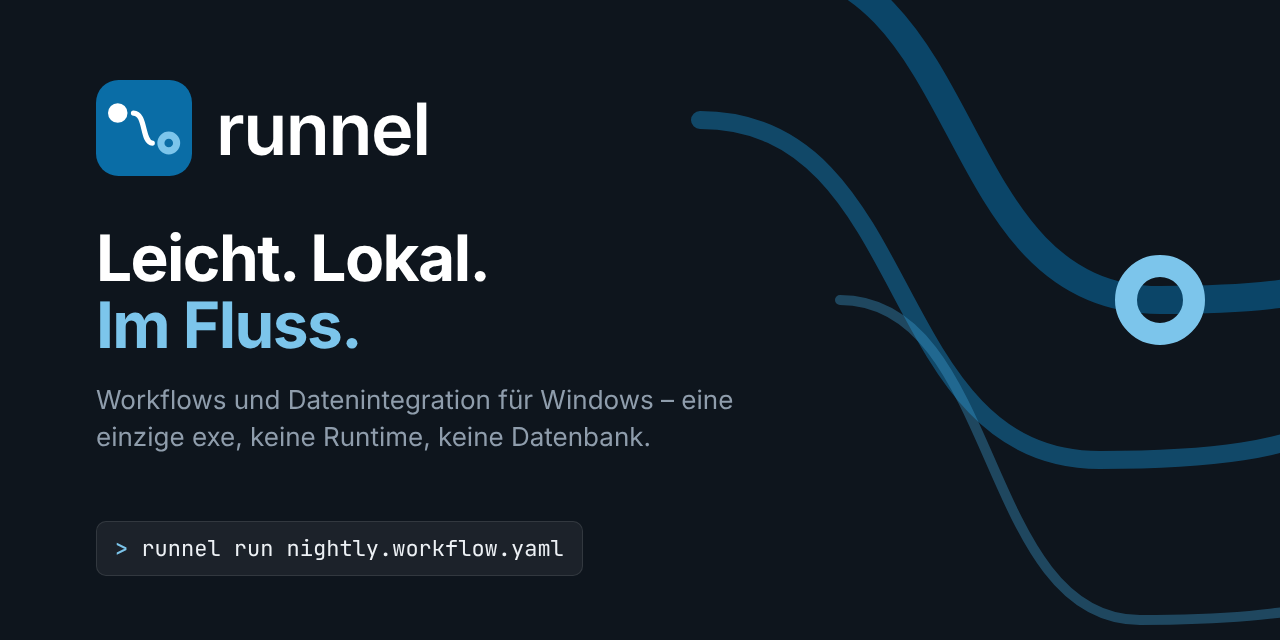
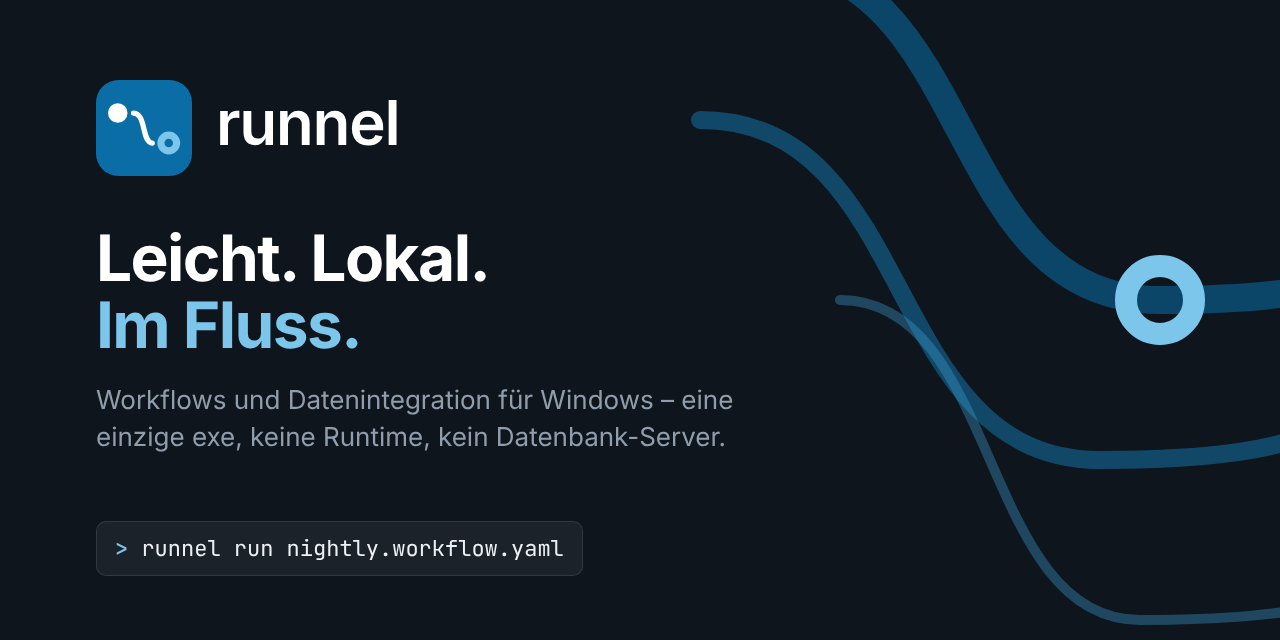
Q-Website: ADR 0026 – Run-Historie, „kein Datenbank-Server“
Beschreibung auf Startseite, Meta-Angaben und Installation nach ADR 0026
angepasst, Social Card aus dem Corporate Design übernommen. Handbuch
(Betrieb, Installation) und API-Doku beschreiben die geplante
Run-Historie.

Claude-Session: https://claude.ai/code/session_015qsFfc5ueDVhE7J67ciR7H

Changed region(s): [[0.1562, 0.1562, 0.3438, 0.25], [0.375, 0.6562, 0.5625, 0.7188]]

diff --git a/_src/guide-betrieb.html b/_src/guide-betrieb.html
@@ -118,8 +118,18 @@ runnel serve --triggers 0.0.0.0:7301 --triggers-cert C:\certs\runnel.crt --trigg
           <ul>
             <li><strong>CLI:</strong> Das Log erscheint in der Konsole; mit <code>-v</code> ausführlich.</li>
             <li><strong>Editor:</strong> Tab „Log“ unter dem Canvas, Status an jeder Action, Ergebnis im Panel.</li>
-            <li><strong>Server und Dienst:</strong> Die letzten 100 Läufe (dazu die letzten 100 von HTTP-Triggern) stehen im Speicher und im Editor; eine dauerhafte Historie ist geplant. Der Dienst schreibt zusätzlich die Log-Datei.</li>
+            <li><strong>Server und Dienst:</strong> Die letzten 100 Läufe (dazu die letzten 100 von HTTP-Triggern) stehen im Speicher und im Editor. Der Dienst schreibt zusätzlich die Log-Datei.</li>
             <li><strong>Secrets</strong> werden in Log, Fehlern und Ergebnissen durch <code>***</code> ersetzt.</li>
+          </ul>
+
+          <h3 id="historie">Run-Historie (in Arbeit)</h3>
+          <p>Beschlossen in <a href="https://github.com/runnelhq/runnel/blob/main/docs/adr/0026-run-historie.md">ADR 0026</a>, umgesetzt in den nächsten Schritten: Läufe überstehen dann Neustarts, und auch Läufe von <code>runnel run</code> und der Aufgabenplanung werden sichtbar. Es bleibt bei „kein Datenbank-Server“ – die Historie ist eine SQLite-Datei, die die exe selbst schreibt; nichts zu installieren und nichts zu verwalten.</p>
+          <ul>
+            <li><strong>Ort:</strong> eine Datei <code>runs.db</code> je Projekt im Datenordner, nicht im Projektordner (gehört nicht in Git; SQLite ist auf Netzlaufwerken nicht sicher). Dienst: <code>%ProgramData%\runnel\history\…</code>, Benutzer: <code>%LOCALAPPDATA%\runnel\history\…</code>; mit <code>--history-dir</code> frei wählbar, z. B. portabel neben der exe.</li>
+            <li><strong>Inhalt:</strong> Lauf, Status je Action bzw. Transform und Log (höchstens 5.000 Zeilen je Lauf); keine Datensätze, Secrets bereits maskiert.</li>
+            <li><strong>Gleichzeitig:</strong> Dienst, <code>runnel serve</code> und <code>runnel run</code> schreiben in dieselbe Datei. Ein Fehler der Historie hält keinen Lauf auf.</li>
+            <li><strong>Ansehen:</strong> im Editor, über die API oder mit <code>runnel runs</code> bzw. <code>runnel runs &lt;id&gt;</code> – ohne SQLite-Werkzeug.</li>
+            <li><strong>Aufbewahrung</strong> in <code>project.yaml</code> unter <code>settings.history</code>: <code>keepDays</code> (Standard 30), <code>maxRuns</code> (10.000), <code>cli</code> (<code>all</code>, <code>errors</code>, <code>none</code>); <code>history:</code> gilt dann für alle Trigger-Arten.</li>
           </ul>
         </article>
 
@@ -228,8 +238,18 @@ runnel serve --triggers 0.0.0.0:7301 --triggers-cert C:\certs\runnel.crt --trigg
           <ul>
             <li><strong>CLI:</strong> the log appears in the console; detailed with <code>-v</code>.</li>
             <li><strong>Editor:</strong> “Log” tab below the canvas, status on every action, result in the panel.</li>
-            <li><strong>Server and service:</strong> the last 100 runs (plus the last 100 from HTTP triggers) are kept in memory and shown in the editor; a persistent history is planned. The service also writes the log file.</li>
+            <li><strong>Server and service:</strong> the last 100 runs (plus the last 100 from HTTP triggers) are kept in memory and shown in the editor. The service also writes the log file.</li>
             <li><strong>Secrets</strong> are replaced by <code>***</code> in log, errors and results.</li>
+          </ul>
+
+          <h3 id="history-en">Run history (in progress)</h3>
+          <p>Decided in <a href="https://github.com/runnelhq/runnel/blob/main/docs/adr/0026-run-historie.md">ADR 0026</a> (German), implemented in the next steps: runs then survive restarts, and runs from <code>runnel run</code> and the Task Scheduler become visible too. It stays “no database server” – the history is an SQLite file handled by the executable itself, nothing to install or administer.</p>
+          <ul>
+            <li><strong>Location:</strong> one file <code>runs.db</code> per project in the data folder, not in the project folder (it does not belong in Git; SQLite is not safe on network drives). Service: <code>%ProgramData%\runnel\history\…</code>, user: <code>%LOCALAPPDATA%\runnel\history\…</code>; <code>--history-dir</code> sets it freely, e.g. portable next to the executable.</li>
+            <li><strong>Content:</strong> run, status per action or transform and log (at most 5,000 lines per run); no records, secrets already masked.</li>
+            <li><strong>Concurrent:</strong> service, <code>runnel serve</code> and <code>runnel run</code> write to the same file. A history error never holds up a run.</li>
+            <li><strong>Viewing:</strong> in the editor, via the API or with <code>runnel runs</code> or <code>runnel runs &lt;id&gt;</code> – no SQLite tool needed.</li>
+            <li><strong>Retention</strong> in <code>project.yaml</code> under <code>settings.history</code>: <code>keepDays</code> (default 30), <code>maxRuns</code> (10,000), <code>cli</code> (<code>all</code>, <code>errors</code>, <code>none</code>); <code>history:</code> then applies to all trigger kinds.</li>
           </ul>
         </article>
       </div>

diff --git a/handbuch/betrieb.html b/handbuch/betrieb.html
@@ -209,8 +209,18 @@ runnel serve --triggers 0.0.0.0:7301 --triggers-cert C:\certs\runnel.crt --trigg
           <ul>
             <li><strong>CLI:</strong> Das Log erscheint in der Konsole; mit <code>-v</code> ausführlich.</li>
             <li><strong>Editor:</strong> Tab „Log“ unter dem Canvas, Status an jeder Action, Ergebnis im Panel.</li>
-            <li><strong>Server und Dienst:</strong> Die letzten 100 Läufe (dazu die letzten 100 von HTTP-Triggern) stehen im Speicher und im Editor; eine dauerhafte Historie ist geplant. Der Dienst schreibt zusätzlich die Log-Datei.</li>
+            <li><strong>Server und Dienst:</strong> Die letzten 100 Läufe (dazu die letzten 100 von HTTP-Triggern) stehen im Speicher und im Editor. Der Dienst schreibt zusätzlich die Log-Datei.</li>
             <li><strong>Secrets</strong> werden in Log, Fehlern und Ergebnissen durch <code>***</code> ersetzt.</li>
+          </ul>
+
+          <h3 id="historie">Run-Historie (in Arbeit)</h3>
+          <p>Beschlossen in <a href="https://github.com/runnelhq/runnel/blob/main/docs/adr/0026-run-historie.md">ADR 0026</a>, umgesetzt in den nächsten Schritten: Läufe überstehen dann Neustarts, und auch Läufe von <code>runnel run</code> und der Aufgabenplanung werden sichtbar. Es bleibt bei „kein Datenbank-Server“ – die Historie ist eine SQLite-Datei, die die exe selbst schreibt; nichts zu installieren und nichts zu verwalten.</p>
+          <ul>
+            <li><strong>Ort:</strong> eine Datei <code>runs.db</code> je Projekt im Datenordner, nicht im Projektordner (gehört nicht in Git; SQLite ist auf Netzlaufwerken nicht sicher). Dienst: <code>%ProgramData%\runnel\history\…</code>, Benutzer: <code>%LOCALAPPDATA%\runnel\history\…</code>; mit <code>--history-dir</code> frei wählbar, z. B. portabel neben der exe.</li>
+            <li><strong>Inhalt:</strong> Lauf, Status je Action bzw. Transform und Log (höchstens 5.000 Zeilen je Lauf); keine Datensätze, Secrets bereits maskiert.</li>
+            <li><strong>Gleichzeitig:</strong> Dienst, <code>runnel serve</code> und <code>runnel run</code> schreiben in dieselbe Datei. Ein Fehler der Historie hält keinen Lauf auf.</li>
+            <li><strong>Ansehen:</strong> im Editor, über die API oder mit <code>runnel runs</code> bzw. <code>runnel runs &lt;id&gt;</code> – ohne SQLite-Werkzeug.</li>
+            <li><strong>Aufbewahrung</strong> in <code>project.yaml</code> unter <code>settings.history</code>: <code>keepDays</code> (Standard 30), <code>maxRuns</code> (10.000), <code>cli</code> (<code>all</code>, <code>errors</code>, <code>none</code>); <code>history:</code> gilt dann für alle Trigger-Arten.</li>
           </ul>
         </article>
 
@@ -334,8 +344,18 @@ runnel serve --triggers 0.0.0.0:7301 --triggers-cert C:\certs\runnel.crt --trigg
           <ul>
             <li><strong>CLI:</strong> the log appears in the console; detailed with <code>-v</code>.</li>
             <li><strong>Editor:</strong> “Log” tab below the canvas, status on every action, result in the panel.</li>
-            <li><strong>Server and service:</strong> the last 100 runs (plus the last 100 from HTTP triggers) are kept in memory and shown in the editor; a persistent history is planned. The service also writes the log file.</li>
+            <li><strong>Server and service:</strong> the last 100 runs (plus the last 100 from HTTP triggers) are kept in memory and shown in the editor. The service also writes the log file.</li>
             <li><strong>Secrets</strong> are replaced by <code>***</code> in log, errors and results.</li>
+          </ul>
+
+          <h3 id="history-en">Run history (in progress)</h3>
+          <p>Decided in <a href="https://github.com/runnelhq/runnel/blob/main/docs/adr/0026-run-historie.md">ADR 0026</a> (German), implemented in the next steps: runs then survive restarts, and runs from <code>runnel run</code> and the Task Scheduler become visible too. It stays “no database server” – the history is an SQLite file handled by the executable itself, nothing to install or administer.</p>
+          <ul>
+            <li><strong>Location:</strong> one file <code>runs.db</code> per project in the data folder, not in the project folder (it does not belong in Git; SQLite is not safe on network drives). Service: <code>%ProgramData%\runnel\history\…</code>, user: <code>%LOCALAPPDATA%\runnel\history\…</code>; <code>--history-dir</code> sets it freely, e.g. portable next to the executable.</li>
+            <li><strong>Content:</strong> run, status per action or transform and log (at most 5,000 lines per run); no records, secrets already masked.</li>
+            <li><strong>Concurrent:</strong> service, <code>runnel serve</code> and <code>runnel run</code> write to the same file. A history error never holds up a run.</li>
+            <li><strong>Viewing:</strong> in the editor, via the API or with <code>runnel runs</code> or <code>runnel runs &lt;id&gt;</code> – no SQLite tool needed.</li>
+            <li><strong>Retention</strong> in <code>project.yaml</code> under <code>settings.history</code>: <code>keepDays</code> (default 30), <code>maxRuns</code> (10,000), <code>cli</code> (<code>all</code>, <code>errors</code>, <code>none</code>); <code>history:</code> then applies to all trigger kinds.</li>
           </ul>
         </article>
       </div>

diff --git a/handbuch/installation.html b/handbuch/installation.html
@@ -93,7 +93,7 @@
         <article class="prose" data-lang-block="de" lang="de">
           <p class="docs-eyebrow">Handbuch</p>
           <h1>Installation</h1>
-          <p class="docs-lead">Runnel ist eine einzige ausführbare Datei. Es gibt kein Setup, keine Runtime und keine Datenbank: herunterladen, entpacken, starten.</p>
+          <p class="docs-lead">Runnel ist eine einzige ausführbare Datei. Es gibt kein Setup, keine Runtime und keinen Datenbank-Server: herunterladen, entpacken, starten.</p>
 
           <h2 id="voraussetzungen">Voraussetzungen</h2>
           <ul>
@@ -174,7 +174,7 @@ C:\Tools\Runnel\runnel.exe version</code></pre>
           <ul>
             <li><strong>Stopp:</strong> <code>service stop</code> wartet bis zu 30 s auf laufende Runs und bricht sie danach ab – am besten außerhalb der Zeitpläne wechseln.</li>
             <li><strong>Während des Wechsels</strong> entfallen Zeitpunkte von Zeitplan- und Intervall-Triggern; neue Dateien in überwachten Ordnern verarbeitet der Dienst nach dem Start; Aufrufe von HTTP-Triggern scheitern, bis er wieder läuft.</li>
-            <li><strong>Läufe:</strong> Die Liste der Läufe liegt nur im Speicher und beginnt nach dem Neustart leer.</li>
+            <li><strong>Läufe:</strong> Die Liste der Läufe liegt heute nur im Speicher und beginnt nach dem Neustart leer. Mit der Run-Historie (<a href="https://github.com/runnelhq/runnel/blob/main/docs/adr/0026-run-historie.md">ADR 0026</a>) bleiben sie erhalten; sie liegt im Datenordner, nicht neben der exe.</li>
             <li><strong>Mehrere Dienste</strong>, die dieselbe <code>runnel.exe</code> starten, vorher alle stoppen – Windows sperrt die Datei, solange einer läuft.</li>
             <li><strong>Ohne Dienst:</strong> <code>runnel serve</code> mit Strg+C beenden, Datei ersetzen, neu starten.</li>
             <li><strong>Zurück:</strong> Dienst stoppen, <code>runnel-old.exe</code> wieder in <code>runnel.exe</code> umbenennen, Dienst starten.</li>
@@ -193,7 +193,7 @@ C:\Tools\Runnel\runnel.exe version</code></pre>
         <article class="prose" data-lang-block="en" hidden lang="en">
           <p class="docs-eyebrow">User guide</p>
           <h1>Installation</h1>
-          <p class="docs-lead">Runnel is a single executable. There is no setup, no runtime and no database: download, unpack, start.</p>
+          <p class="docs-lead">Runnel is a single executable. There is no setup, no runtime and no database server: download, unpack, start.</p>
 
           <h2 id="requirements">Requirements</h2>
           <ul>
@@ -274,7 +274,7 @@ C:\Tools\Runnel\runnel.exe version</code></pre>
           <ul>
             <li><strong>Stopping:</strong> <code>service stop</code> waits up to 30 s for running runs, then cancels them – best switch outside the schedules.</li>
             <li><strong>During the switch</strong> schedule and interval trigger times are skipped; new files in watched folders are processed after the start; calls to HTTP triggers fail until the service runs again.</li>
-            <li><strong>Runs:</strong> the list of runs lives in memory only and starts empty after the restart.</li>
+            <li><strong>Runs:</strong> today the list of runs lives in memory only and starts empty after the restart. With the run history (<a href="https://github.com/runnelhq/runnel/blob/main/docs/adr/0026-run-historie.md">ADR 0026</a>) they are kept; it lives in the data folder, not next to the executable.</li>
             <li><strong>Several services</strong> starting the same <code>runnel.exe</code>: stop them all first – Windows locks the file while one runs.</li>
             <li><strong>Without a service:</strong> end <code>runnel serve</code> with Ctrl+C, replace the file, start again.</li>
             <li><strong>Going back:</strong> stop the service, rename <code>runnel-old.exe</code> back to <code>runnel.exe</code>, start the service.</li>

diff --git a/_src/guide-installation.html b/_src/guide-installation.html
@@ -17,7 +17,7 @@
         <article class="prose" data-lang-block="de" lang="de">
           <p class="docs-eyebrow">Handbuch</p>
           <h1>Installation</h1>
-          <p class="docs-lead">Runnel ist eine einzige ausführbare Datei. Es gibt kein Setup, keine Runtime und keine Datenbank: herunterladen, entpacken, starten.</p>
+          <p class="docs-lead">Runnel ist eine einzige ausführbare Datei. Es gibt kein Setup, keine Runtime und keinen Datenbank-Server: herunterladen, entpacken, starten.</p>
 
           <h2 id="voraussetzungen">Voraussetzungen</h2>
           <ul>
@@ -86,7 +86,7 @@ C:\Tools\Runnel\runnel.exe version</code></pre>
           <ul>
             <li><strong>Stopp:</strong> <code>service stop</code> wartet bis zu 30 s auf laufende Runs und bricht sie danach ab – am besten außerhalb der Zeitpläne wechseln.</li>
             <li><strong>Während des Wechsels</strong> entfallen Zeitpunkte von Zeitplan- und Intervall-Triggern; neue Dateien in überwachten Ordnern verarbeitet der Dienst nach dem Start; Aufrufe von HTTP-Triggern scheitern, bis er wieder läuft.</li>
-            <li><strong>Läufe:</strong> Die Liste der Läufe liegt nur im Speicher und beginnt nach dem Neustart leer.</li>
+            <li><strong>Läufe:</strong> Die Liste der Läufe liegt heute nur im Speicher und beginnt nach dem Neustart leer. Mit der Run-Historie (<a href="https://github.com/runnelhq/runnel/blob/main/docs/adr/0026-run-historie.md">ADR 0026</a>) bleiben sie erhalten; sie liegt im Datenordner, nicht neben der exe.</li>
             <li><strong>Mehrere Dienste</strong>, die dieselbe <code>runnel.exe</code> starten, vorher alle stoppen – Windows sperrt die Datei, solange einer läuft.</li>
             <li><strong>Ohne Dienst:</strong> <code>runnel serve</code> mit Strg+C beenden, Datei ersetzen, neu starten.</li>
             <li><strong>Zurück:</strong> Dienst stoppen, <code>runnel-old.exe</code> wieder in <code>runnel.exe</code> umbenennen, Dienst starten.</li>
@@ -105,7 +105,7 @@ C:\Tools\Runnel\runnel.exe version</code></pre>
         <article class="prose" data-lang-block="en" lang="en">
           <p class="docs-eyebrow">User guide</p>
           <h1>Installation</h1>
-          <p class="docs-lead">Runnel is a single executable. There is no setup, no runtime and no database: download, unpack, start.</p>
+          <p class="docs-lead">Runnel is a single executable. There is no setup, no runtime and no database server: download, unpack, start.</p>
 
           <h2 id="requirements">Requirements</h2>
           <ul>
@@ -174,7 +174,7 @@ C:\Tools\Runnel\runnel.exe version</code></pre>
           <ul>
             <li><strong>Stopping:</strong> <code>service stop</code> waits up to 30 s for running runs, then cancels them – best switch outside the schedules.</li>
             <li><strong>During the switch</strong> schedule and interval trigger times are skipped; new files in watched folders are processed after the start; calls to HTTP triggers fail until the service runs again.</li>
-            <li><strong>Runs:</strong> the list of runs lives in memory only and starts empty after the restart.</li>
+            <li><strong>Runs:</strong> today the list of runs lives in memory only and starts empty after the restart. With the run history (<a href="https://github.com/runnelhq/runnel/blob/main/docs/adr/0026-run-historie.md">ADR 0026</a>) they are kept; it lives in the data folder, not next to the executable.</li>
             <li><strong>Several services</strong> starting the same <code>runnel.exe</code>: stop them all first – Windows locks the file while one runs.</li>
             <li><strong>Without a service:</strong> end <code>runnel serve</code> with Ctrl+C, replace the file, start again.</li>
             <li><strong>Going back:</strong> stop the service, rename <code>runnel-old.exe</code> back to <code>runnel.exe</code>, start the service.</li>

diff --git a/docs/api.html b/docs/api.html
@@ -197,7 +197,7 @@ curl -N <span class="tok-s">"http://127.0.0.1:7300/api/v1/events?run=&lt;id&gt;"
   <span class="tok-s">"outputs"</span>: { <span class="tok-s">"MESSAGE"</span>: <span class="tok-s">"Hello"</span> }
 }</code></pre>
 </div>
-          <p><code>status</code> ist <code>running</code>, <code>succeeded</code>, <code>failed</code> oder <code>cancelled</code>; <code>trigger</code> nennt, was den Lauf gestartet hat (<code>cron:&lt;name&gt;</code>, <code>interval:…</code>, <code>file:…</code>, <code>http:…</code>). <code>GET /runs/{id}</code> ergänzt den Status je Action und das Log (höchstens 5.000 Zeilen). Läufe liegen nur im Speicher – die letzten 100, dazu die letzten 100 von HTTP-Triggern; eine dauerhafte Historie folgt mit S26, ohne dass sich die API ändert.</p>
+          <p><code>status</code> ist <code>running</code>, <code>succeeded</code>, <code>failed</code> oder <code>cancelled</code>; <code>trigger</code> nennt, was den Lauf gestartet hat (<code>cron:&lt;name&gt;</code>, <code>interval:…</code>, <code>file:…</code>, <code>http:…</code>). <code>GET /runs/{id}</code> ergänzt den Status je Action und das Log (höchstens 5.000 Zeilen). Läufe liegen nur im Speicher – die letzten 100, dazu die letzten 100 von HTTP-Triggern; eine dauerhafte Historie folgt mit S26 (<a href="https://github.com/runnelhq/runnel/blob/main/docs/adr/0026-run-historie.md">ADR 0026</a>): eine SQLite-Datei je Projekt im Datenordner. Die Antworten bleiben gleich; laufende Läufe kommen weiter aus dem Speicher, alle anderen aus der Historie, dazu Filter und Seiten (<code>status</code>, <code>path</code>, <code>trigger</code>, <code>before</code>, <code>limit</code>).</p>
 
           <h2 id="events">Live-Ereignisse (<code>/events</code>)</h2>
           <div class="code">
@@ -346,7 +346,7 @@ curl -N <span class="tok-s">"http://127.0.0.1:7300/api/v1/events?run=&lt;id&gt;"
   <span class="tok-s">"outputs"</span>: { <span class="tok-s">"MESSAGE"</span>: <span class="tok-s">"Hello"</span> }
 }</code></pre>
 </div>
-          <p><code>status</code> is <code>running</code>, <code>succeeded</code>, <code>failed</code> or <code>cancelled</code>; <code>trigger</code> names what started the run (<code>cron:&lt;name&gt;</code>, <code>interval:…</code>, <code>file:…</code>, <code>http:…</code>). <code>GET /runs/{id}</code> adds the status per action and the log (at most 5,000 lines). Runs are kept in memory only – the last 100 plus the last 100 from HTTP triggers; a persistent history follows with S26 without changing the API.</p>
+          <p><code>status</code> is <code>running</code>, <code>succeeded</code>, <code>failed</code> or <code>cancelled</code>; <code>trigger</code> names what started the run (<code>cron:&lt;name&gt;</code>, <code>interval:…</code>, <code>file:…</code>, <code>http:…</code>). <code>GET /runs/{id}</code> adds the status per action and the log (at most 5,000 lines). Runs are kept in memory only – the last 100 plus the last 100 from HTTP triggers; a persistent history follows with S26 (<a href="https://github.com/runnelhq/runnel/blob/main/docs/adr/0026-run-historie.md">ADR 0026</a>): one SQLite file per project in the data folder. The responses stay the same; running runs still come from memory, all others from the history, plus filters and pages (<code>status</code>, <code>path</code>, <code>trigger</code>, <code>before</code>, <code>limit</code>).</p>
 
           <h2 id="events-en">Live events (<code>/events</code>)</h2>
           <div class="code">

diff --git a/_src/docs-api.html b/_src/docs-api.html
@@ -91,7 +91,7 @@ runnel serve --port 0 .          # freier Port; die Ausgabe nennt die Adresse</c
             </tbody>
           </table></div>
           {{snippet:api-run.json|Run}}
-          <p><code>status</code> ist <code>running</code>, <code>succeeded</code>, <code>failed</code> oder <code>cancelled</code>; <code>trigger</code> nennt, was den Lauf gestartet hat (<code>cron:&lt;name&gt;</code>, <code>interval:…</code>, <code>file:…</code>, <code>http:…</code>). <code>GET /runs/{id}</code> ergänzt den Status je Action und das Log (höchstens 5.000 Zeilen). Läufe liegen nur im Speicher – die letzten 100, dazu die letzten 100 von HTTP-Triggern; eine dauerhafte Historie folgt mit S26, ohne dass sich die API ändert.</p>
+          <p><code>status</code> ist <code>running</code>, <code>succeeded</code>, <code>failed</code> oder <code>cancelled</code>; <code>trigger</code> nennt, was den Lauf gestartet hat (<code>cron:&lt;name&gt;</code>, <code>interval:…</code>, <code>file:…</code>, <code>http:…</code>). <code>GET /runs/{id}</code> ergänzt den Status je Action und das Log (höchstens 5.000 Zeilen). Läufe liegen nur im Speicher – die letzten 100, dazu die letzten 100 von HTTP-Triggern; eine dauerhafte Historie folgt mit S26 (<a href="https://github.com/runnelhq/runnel/blob/main/docs/adr/0026-run-historie.md">ADR 0026</a>): eine SQLite-Datei je Projekt im Datenordner. Die Antworten bleiben gleich; laufende Läufe kommen weiter aus dem Speicher, alle anderen aus der Historie, dazu Filter und Seiten (<code>status</code>, <code>path</code>, <code>trigger</code>, <code>before</code>, <code>limit</code>).</p>
 
           <h2 id="events">Live-Ereignisse (<code>/events</code>)</h2>
           {{snippet:api-event.txt|Beispiel}}
@@ -206,7 +206,7 @@ runnel serve --port 0 .          # free port; the output names the address</code
             </tbody>
           </table></div>
           {{snippet:api-run.json|Run}}
-          <p><code>status</code> is <code>running</code>, <code>succeeded</code>, <code>failed</code> or <code>cancelled</code>; <code>trigger</code> names what started the run (<code>cron:&lt;name&gt;</code>, <code>interval:…</code>, <code>file:…</code>, <code>http:…</code>). <code>GET /runs/{id}</code> adds the status per action and the log (at most 5,000 lines). Runs are kept in memory only – the last 100 plus the last 100 from HTTP triggers; a persistent history follows with S26 without changing the API.</p>
+          <p><code>status</code> is <code>running</code>, <code>succeeded</code>, <code>failed</code> or <code>cancelled</code>; <code>trigger</code> names what started the run (<code>cron:&lt;name&gt;</code>, <code>interval:…</code>, <code>file:…</code>, <code>http:…</code>). <code>GET /runs/{id}</code> adds the status per action and the log (at most 5,000 lines). Runs are kept in memory only – the last 100 plus the last 100 from HTTP triggers; a persistent history follows with S26 (<a href="https://github.com/runnelhq/runnel/blob/main/docs/adr/0026-run-historie.md">ADR 0026</a>): one SQLite file per project in the data folder. The responses stay the same; running runs still come from memory, all others from the history, plus filters and pages (<code>status</code>, <code>path</code>, <code>trigger</code>, <code>before</code>, <code>limit</code>).</p>
 
           <h2 id="events-en">Live events (<code>/events</code>)</h2>
           {{snippet:api-event.txt|Example}}

diff --git a/index.html b/index.html
@@ -4,7 +4,7 @@
   <meta charset="utf-8">
   <meta name="viewport" content="width=device-width, initial-scale=1">
   <title data-i18n="meta.title">Runnel – Leicht. Lokal. Im Fluss.</title>
-  <meta name="description" data-i18n-attr="content:meta.description" content="Workflows und Datenintegration für Windows – eine einzige exe, keine Runtime, keine Datenbank. Open Source unter MIT-Lizenz.">
+  <meta name="description" data-i18n-attr="content:meta.description" content="Workflows und Datenintegration für Windows – eine einzige exe, keine Runtime, kein Datenbank-Server. Open Source unter MIT-Lizenz.">
   <meta name="theme-color" content="#0A6DA6">
   <link rel="icon" href="favicon.svg" type="image/svg+xml">
   <link rel="icon" href="favicon.ico" sizes="any">
@@ -13,7 +13,7 @@
   <link rel="alternate" hreflang="en" href="https://runnelhq.github.io/?lang=en">
   <meta property="og:type" content="website">
   <meta property="og:title" content="Runnel – Leicht. Lokal. Im Fluss.">
-  <meta property="og:description" content="Workflows und Datenintegration für Windows – eine einzige exe, keine Runtime, keine Datenbank.">
+  <meta property="og:description" content="Workflows und Datenintegration für Windows – eine einzige exe, keine Runtime, kein Datenbank-Server.">
   <meta property="og:image" content="https://runnelhq.github.io/assets/img/social-card.png">
   <meta name="twitter:card" content="summary_large_image">
   <meta name="twitter:image" content="https://runnelhq.github.io/assets/img/social-card.png">
@@ -103,7 +103,7 @@
         <div>
           <span class="pill"><span class="dot" aria-hidden="true"></span><span data-i18n="hero.pill">Vorabversion v0.1.0-alpha.9 · Open Source (MIT)</span></span>
           <h1 data-i18n="hero.title">Leicht. Lokal.<br><em>Im Fluss.</em></h1>
-          <p class="lead" data-i18n="hero.lead">Workflows und Datenintegration für Windows – eine einzige exe, keine Runtime, keine Datenbank. Visuell gestalten im Editor, ausführen per CLI, Server oder Windows-Dienst.</p>
+          <p class="lead" data-i18n="hero.lead">Workflows und Datenintegration für Windows – eine einzige exe, keine Runtime, kein Datenbank-Server. Visuell gestalten im Editor, ausführen per CLI, Server oder Windows-Dienst.</p>
           <div class="ctas">
             <a class="btn btn--primary" href="https://github.com/runnelhq/runnel/releases"><svg aria-hidden="true"><use href="#i-download"/></svg><span data-i18n="cta.download">Herunterladen</span></a>
             <a class="btn btn--outline" href="https://github.com/runnelhq/runnel"><svg aria-hidden="true"><use href="#i-github"/></svg><span data-i18n="cta.github">Auf GitHub ansehen</span></a>

diff --git a/assets/js/i18n.js b/assets/js/i18n.js
@@ -42,7 +42,7 @@ window.RUNNEL_I18N = {
     "blocks.dual": "Exists as an action and as a transform – with its own fields for each kind:",
     "blocks.dualLabel": "Action and transform",
     "meta.title": "Runnel – Lightweight. Local. Flowing.",
-    "meta.description": "Workflows and data integration for Windows – one executable, no runtime, no database. Open source under the MIT license.",
+    "meta.description": "Workflows and data integration for Windows – one executable, no runtime, no database server. Open source under the MIT license.",
     "a11y.skip": "Skip to content",
     "nav.label": "Main navigation",
     "nav.open": "Open menu",
@@ -61,7 +61,7 @@ window.RUNNEL_I18N = {
     "ui.copyCmd": "Copy command",
 
     "hero.title": "Lightweight. Local.<br><em>Flowing.</em>",
-    "hero.lead": "Workflows and data integration for Windows – one executable, no runtime, no database. Design visually in the editor, run via CLI, server or Windows service.",
+    "hero.lead": "Workflows and data integration for Windows – one executable, no runtime, no database server. Design visually in the editor, run via CLI, server or Windows service.",
     "hero.meta": "For Windows and Linux (amd64) · one <code>runnel.exe</code>, no installation required",
     "hero.termLabel": "Output of runnel run for the hello example",
 
